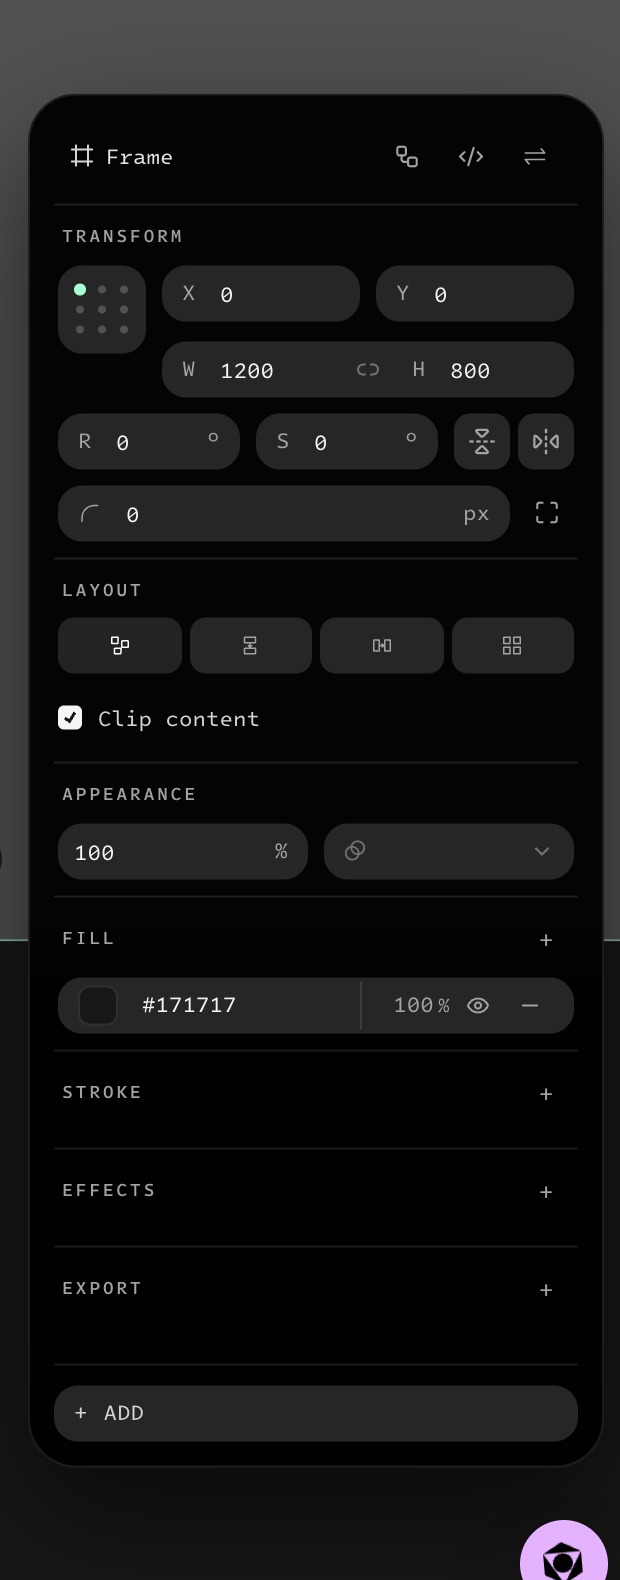
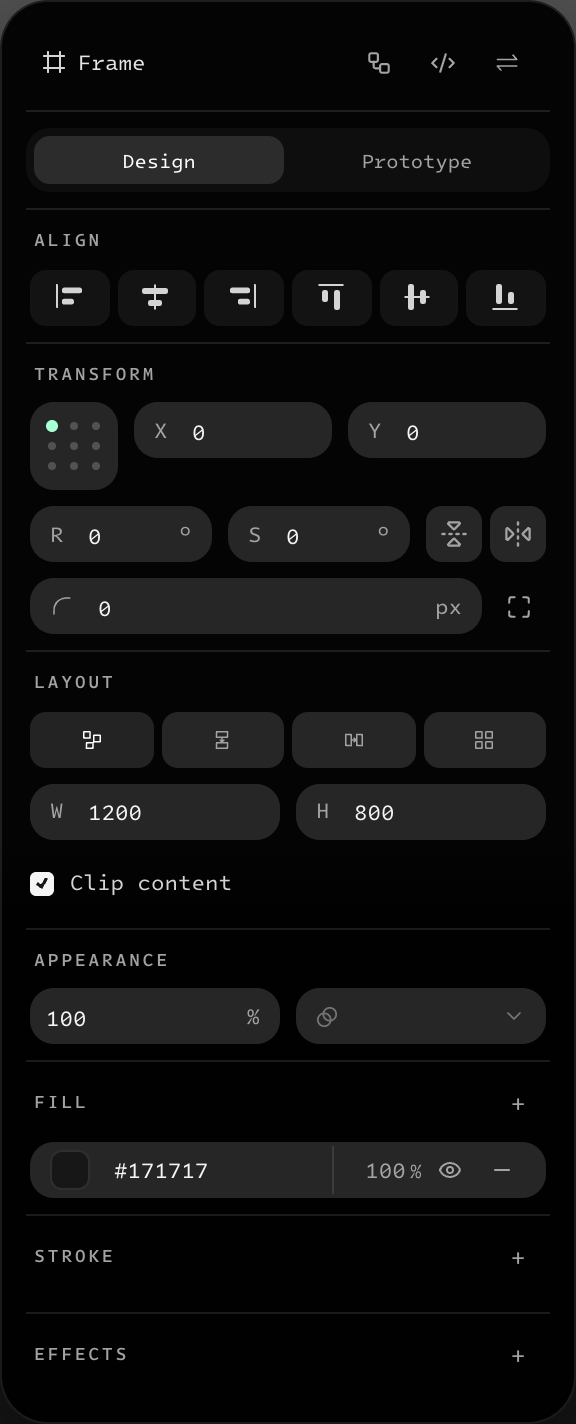
feat: Design/Prototype tab strip in the right panel
- add Figma-style Design | Prototype tabs above the section scroll area
- Prototype tab switches to the existing prototype view; the header shortcut
  remains for compatibility
- update the REA gap report: tabs, Layout W/H placement and single-layer
  alignment are now shipped

diff --git a/src/canvas/components/editor_properties/index.jsx b/src/canvas/components/editor_properties/index.jsx
@@ -313,6 +313,35 @@ export default function EditorProperties({
     >
       {header}
       <div className={contentClass}>
+        {canPrototype && !inspectOpen ? (
+          <div
+            role="tablist"
+            aria-label={t("editor.props.panelTabs")}
+            data-testid="editor-panel-tabs"
+            className="mb-2 flex shrink-0 items-center gap-1 rounded-xl bg-white/[0.04] p-1"
+          >
+            {[
+              ["design", t("editor.panel.design"), "properties"],
+              ["prototype", t("editor.props.prototype"), "prototype"],
+            ].map(([key, label, view]) => (
+              <button
+                key={key}
+                type="button"
+                role="tab"
+                aria-selected={panelView === view}
+                data-testid={`editor-panel-tab-${key}`}
+                onClick={() => setPanelView(view)}
+                className={`flex h-6 flex-1 items-center justify-center rounded-lg text-[10px] font-mono transition-colors ${
+                  panelView === view
+                    ? "bg-white/[0.12] text-white"
+                    : "text-neutral-400 hover:text-neutral-200"
+                }`}
+              >
+                {label}
+              </button>
+            ))}
+          </div>
+        ) : null}
         {canInspect && inspectOpen ? (
           <InspectPanel
             object={object}

diff --git a/src/shared/i18n/extended-en.js b/src/shared/i18n/extended-en.js
@@ -10,6 +10,8 @@ export default {
   "editor.props.layoutMode.vertical": "Vertical",
   "editor.props.layoutMode.horizontal": "Horizontal",
   "editor.props.layoutMode.grid": "Grid",
+  "editor.props.panelTabs": "Panel tabs",
+  "editor.panel.design": "Design",
   "editor.props.layout": "Layout",
   "editor.props.frameLayout": "Frame & layout",
   "editor.props.clip": "Frame",
@@ -494,6 +496,9 @@ export default {
   "user.haveAccountPrefix": "Have an account?",
   "user.oauthUnavailable": "Not available yet",
   "user.oauthLoading": "Loading sign-in options…",
+  "user.oauthSetupRequired": "Google and GitHub sign-in are not enabled in Voo Cloud yet.",
+  "user.authSubmitting": "Connecting to Voo Cloud…",
+  "user.cloudAccount": "Voo Cloud account",
   "inspector.localPrompt": "Local prompt",
   "inspector.mentionHint": "@ to mention",
   "inspector.mentionKeys": "↑↓ navigate · Enter / Tab select · Esc close",

diff --git a/src/shared/i18n/extended-zh.js b/src/shared/i18n/extended-zh.js
@@ -10,6 +10,8 @@ export default {
   "editor.props.layoutMode.vertical": "垂直",
   "editor.props.layoutMode.horizontal": "水平",
   "editor.props.layoutMode.grid": "网格",
+  "editor.props.panelTabs": "面板标签",
+  "editor.panel.design": "设计",
   "editor.props.layout": "布局",
   "editor.props.frameLayout": "画框与布局",
   "editor.props.clip": "画框",
@@ -482,6 +484,9 @@ export default {
   "user.haveAccountPrefix": "已有账号？",
   "user.oauthUnavailable": "暂未开通",
   "user.oauthLoading": "正在加载登录方式…",
+  "user.oauthSetupRequired": "Google 和 GitHub 登录尚未在 Voo Cloud 后台启用。",
+  "user.authSubmitting": "正在连接 Voo Cloud…",
+  "user.cloudAccount": "Voo Cloud 账户",
   "inspector.localPrompt": "本节点提示词",
   "inspector.mentionHint": "@ 引用节点",
   "inspector.mentionKeys": "↑↓ 选择 · Enter / Tab确认 · Esc关闭",

diff --git a/analysis/figma/RIGHT_PANEL_ALIGN_REA_2026-10-26.md b/analysis/figma/RIGHT_PANEL_ALIGN_REA_2026-10-26.md
@@ -27,7 +27,7 @@
     不是本轮伪造的 AX。
 - **VOO 当前面板证据**：
   `analysis/figma/assets/voo-right-panel-2026-10-26.png`
-  （当前 build，选中 Frame；sha256 `24013ea6…`）。
+  （当前 build，选中 Frame；sha256 `bf4ad628…`）。
 
 ## 2. Figma 126.9.16 面板实际结构（截图事实）
 
@@ -75,10 +75,10 @@ Figma Desktop 选中一个 Frame 时，右侧 rail 从上到下：
 
 | Figma | VOO | 结论 |
 |---|---|---|
-| Design / Prototype tabs | ❌ 无 tab；Prototype 是底部 section | P1：加双 tab，或至少把 Design/Prototype 分段放顶部 |
+| Design / Prototype tabs | ✅ 本轮新增顶部双 tab（Design/Prototype）；Prototype 视图保留 header 图标快捷入口 | 已对齐 |
 | 未用 Fill/Stroke/Effects 仅标题 + `+` | ✅ 本轮已改为标题 +（空状态行已隐藏） | 已对齐 |
 | 面板内 section 常开/折叠策略 | ✅ 核心 section 常开，无折叠箭头 | 已对齐 |
-| 选中单个 Frame 显示 alignment 行 | ❌ 当前 VOO 单 Frame 不显示 ALIGN（多选才出现） | P1：Frame 单选也要显示对齐行 |
+| 选中单个 Frame 显示 alignment 行 | ✅ 本轮修复；单对象对齐到父 Frame（无父级时到页面） | 已对齐 |
 
 ### 4.2 Position / Transform
 
@@ -86,7 +86,7 @@ Figma Desktop 选中一个 Frame 时，右侧 rail 从上到下：
 |---|---|---|
 | 6 align + distribute/tidy | 🟡 有全套操作，但单 Frame 不显示；图标已按新 20px 套件 | 补单 Frame 可见性 |
 | X/Y | ✅ | — |
-| W/H + sizing 下拉（Fixed/Hug/Fill） | 🟡 W/H 在 Transform；sizing 只在 auto-layout frame/子项出现 | P1：W/H 移到 Layout，普通 Frame 也显示 Fixed 语义 |
+| W/H + sizing 下拉（Fixed/Hug/Fill） | 🟡 W/H 本轮已移到 Layout；sizing 下拉仍只在 auto-layout 字段里 | 余：普通 Frame 的 Fixed 语义下拉 |
 | Rotation / Flip | ✅ | — |
 | Corner radius + independent corners | ✅ | — |
 | Corner smoothing | ❌ | P2/长尾 |
@@ -98,7 +98,7 @@ Figma Desktop 选中一个 Frame 时，右侧 rail 从上到下：
 | Figma | VOO | 结论 |
 |---|---|---|
 | 4 模式 strip（none/vertical/horizontal/grid） | ✅ 本轮已有 | 已对齐 |
-| W/H 在 Layout | 🟡 当前在 Transform | P1：迁移 |
+| W/H 在 Layout | ✅ 本轮已迁移；Transform 不再重复 | 已对齐 |
 | Clip content 复选框 | ✅ | 已对齐 |
 | Auto layout direction/wrap/gap/padding/align | ✅ | — |
 | Min/max 尺寸约束 | ✅ 面板有 Min W/Max W/Min H/Max H | 已对齐 |
@@ -159,7 +159,7 @@ Figma Desktop 选中一个 Frame 时，右侧 rail 从上到下：
 | Inspect（Dev Mode） | 🟡 VOO 有 inspect 面板；无 Figma 的测量/组件/导出全量 | P2 |
 | Page background / On this page colors / presets | 🟡 Background 有；页面颜色/设备 presets 缺 | P2 |
 
-## 5. 本轮已对齐（相对旧 parity 文档）
+## 5. 本轮已对齐（相对旧 parity 文档 / 新增修复）
 
 - Layout：Figma 式 4 模式 strip、Clip content 复选框、auto layout/grid 字段内嵌；
 - 面板骨架：未用 Fill/Stroke/Effects/Prototype 不再显示空状态行，只保留标题 +；
@@ -167,14 +167,15 @@ Figma Desktop 选中一个 Frame 时，右侧 rail 从上到下：
 - 对齐图标：换成新 20px 套件（bar + blocks / grid）；
 - Effects：layer blur、background blur、noise 入口；Glass 近似效果；
 - W/H 对部分场景加 sizing 下拉；独立圆角、anchor grid 放大；
-- Background/Frame 默认 Fill、导出 icon、协作提示位置等已修。
+- Background/Frame 默认 Fill、导出 icon、协作提示位置等已修；
+- **本轮新增修复**：Design/Prototype 双 tab；W/H 从 Transform 迁到 Layout 且不再重复；
+  单选 Frame 显示 ALIGN 并支持对齐到父 Frame/页面。
 
 ## 6. 优先级建议（给下一轮实现）
 
 | 优先级 | 缺口 | 动作 | 量 |
 |---|---|---|---|
-| P1 | Layout 的 W/H 与 sizing | 把 W/H 从 Transform 移到 Layout；普通 Frame 也显示 Fixed 下拉，auto layout 显示 Hug/Fill | S/M |
-| P1 | 单 Frame 的 alignment | 让 ALIGN 行在单选 Frame 也显示；补齐 distribute/tidy 的可用性状态 | S |
+| P1 | 普通 Frame 的 W/H sizing 下拉 | 已有 W/H 在 Layout；补 Fixed 下拉（auto layout 已有 Hug/Fill） | S |
 | P1 | 多 stroke / per-side | stroke 数组 + 每边 border；面板多行列表 | M |
 | P1 | Design/Prototype 双 tab | 顶部 tab 切换，Prototype 从底部 section 迁出 | M |
 | P2 | Component properties + go-to-main + granular reset | 组件作者面 | M/L |
